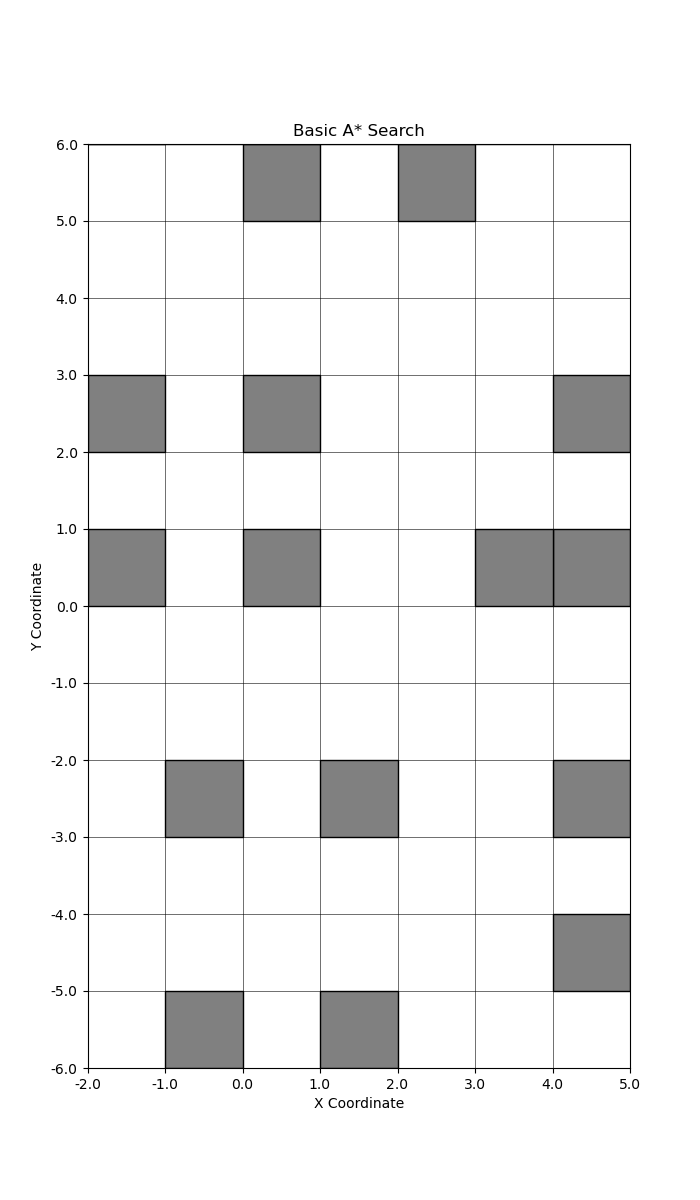
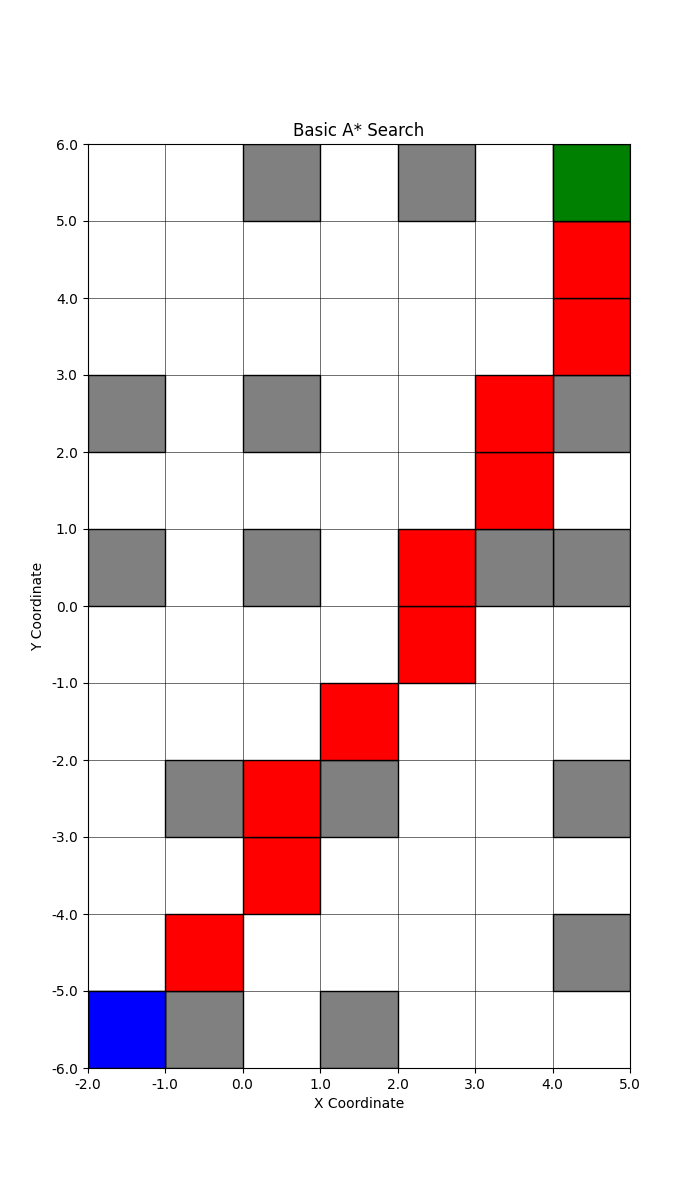
First iteration of astar

Changed region(s): [[0.12, 0.1233, 0.9, 0.8942], [0.42, 0.0925, 0.6, 0.1233], [0.45, 0.8942, 0.48, 0.925]]

diff --git a/questions.py b/questions.py
@@ -130,14 +130,14 @@ def q1():
 def q2():
     print("Running question 2...", end="", flush=True)
     bounds = [
-        [-2, -6],    # x bounds
-        [5,   6]     # y bounds
+        [-2, 5],    # x bounds
+        [-6, 6]     # y bounds
     ]
     res = 1.0
     obstacles = get_obstacles(res)
 
-    start = np.array([-2, 6])
-    goal = np.array([5, 6])
+    start = np.array([-2, -6])
+    goal = np.array([4, 5])
 
     path = a_star(start, goal, bounds, res, obstacles)
     plot_search(start, goal, path, bounds, res, obstacles, 'Basic A* Search', 'q2.png')
